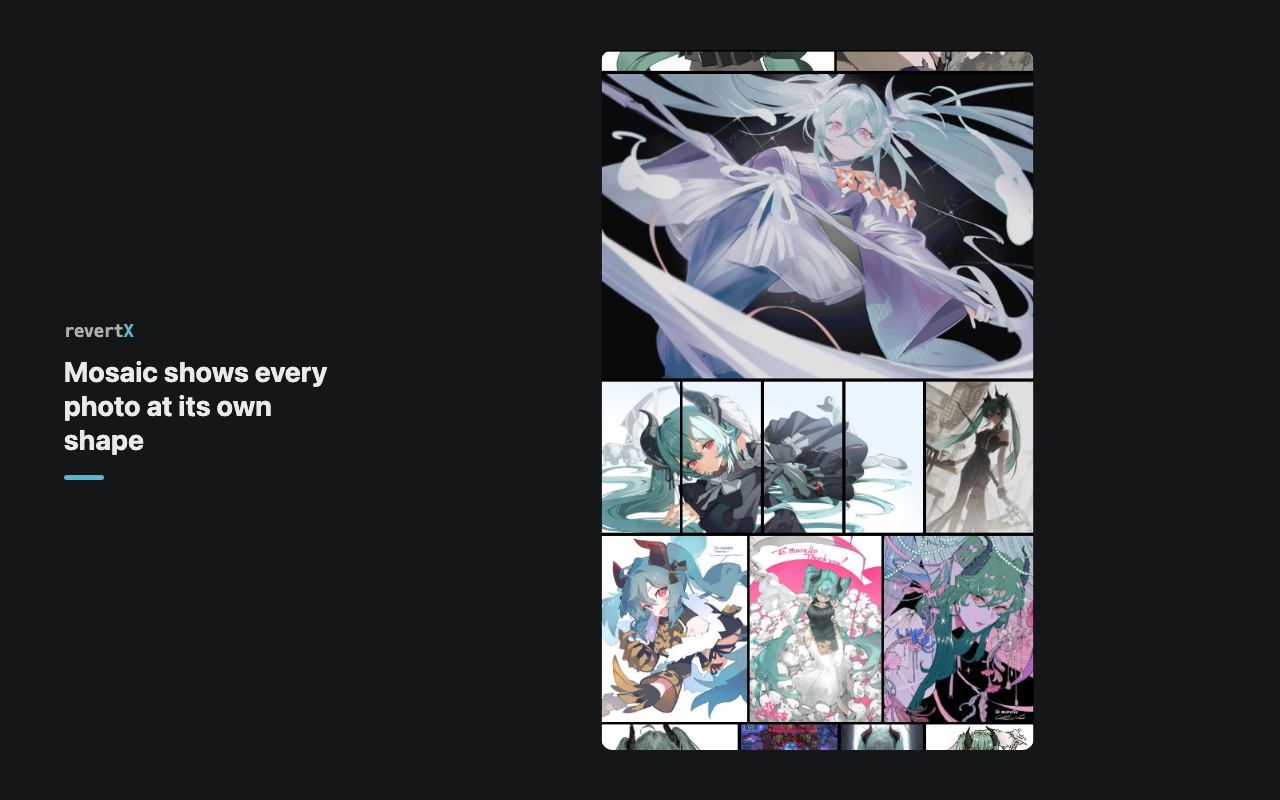
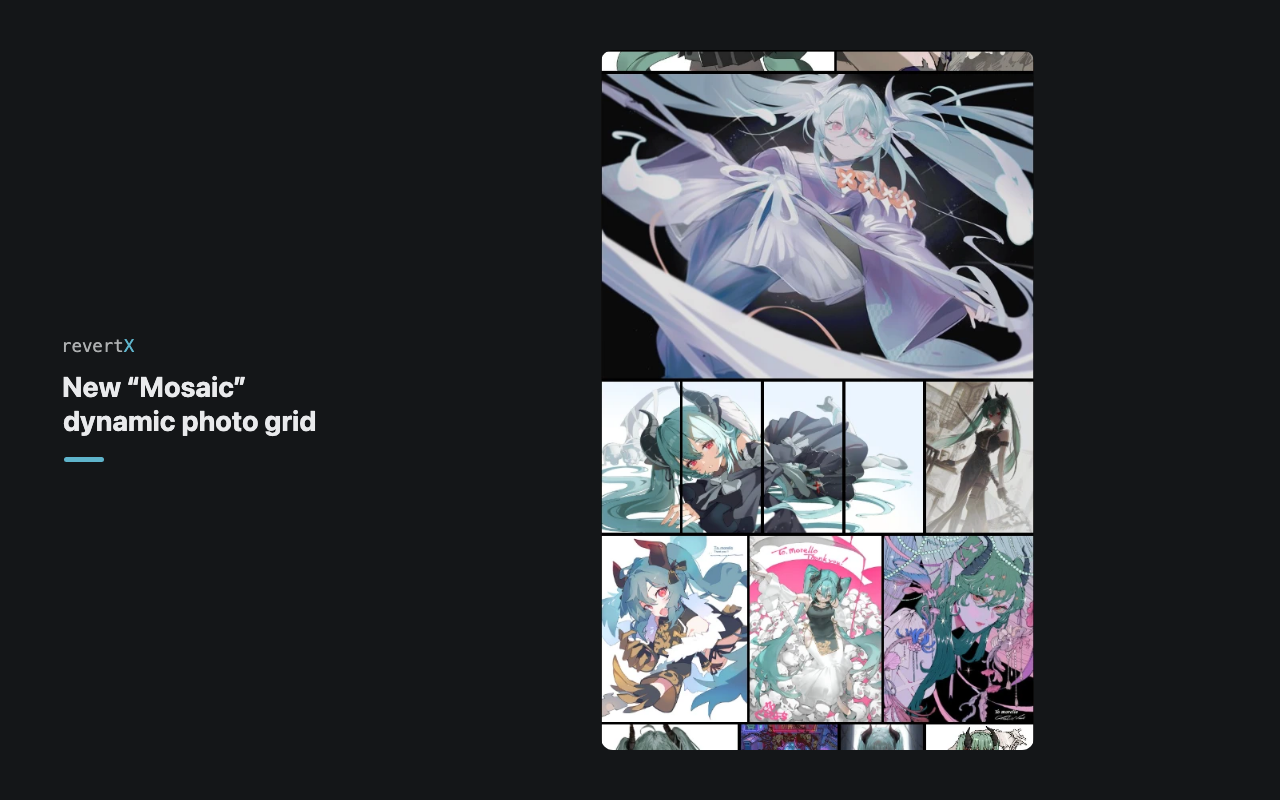
The Mosaic screenshot names the feature
The caption column is re-rendered: New "Mosaic" dynamic photo grid,
over the same capture. The x.com capture is copied through untouched
(pixel-identical, verified), and the caption keeps the sheet's own
metrics: wordmark at 14px ink, 34px line pitch, the 40x5 accent rule
on whole pixels, block centred on the page.

Changed region(s): [[0.0312, 0.4062, 0.25, 0.625]]

diff --git a/docs/chrome-web-store.md b/docs/chrome-web-store.md
@@ -208,7 +208,7 @@ collected; if asked, point at the Privacy section of the README.
 | `02-likes-tab.png` | Likes tab back on your own profile |
 | `03-post-grid.png` | Posts with 2, 3 or 4 images back in the old grid |
 | `04-share-menu.png` | Copy link back on top |
-| `05-mosaic.png` | Mosaic shows every photo at its own shape |
+| `05-mosaic.png` | New “Mosaic” dynamic photo grid |
 
 Captions are rendered into the image; the store has no caption field.
 Each one is a caption column beside a page-only capture of live x.com
